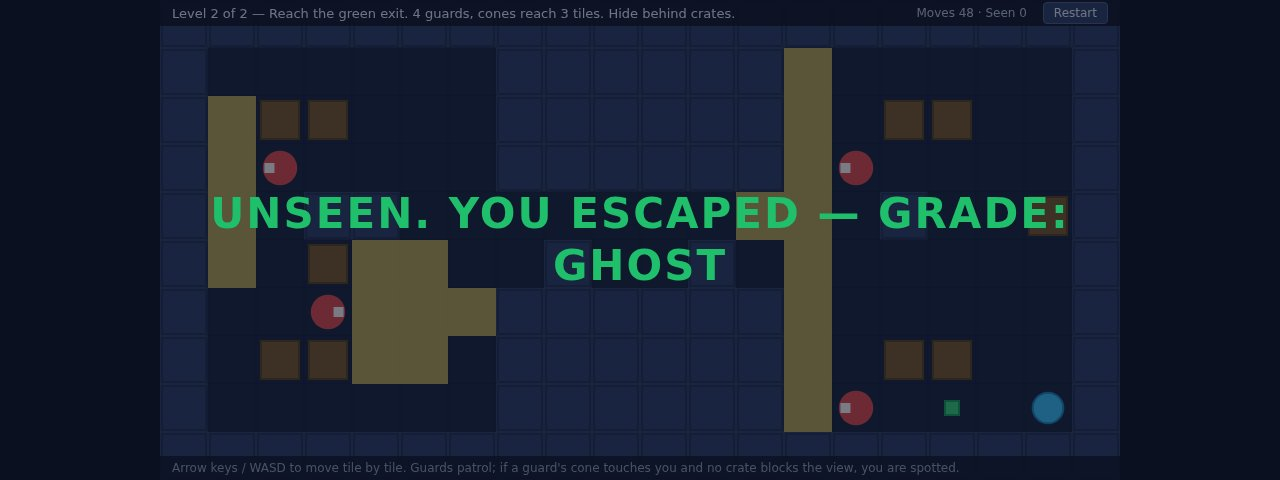
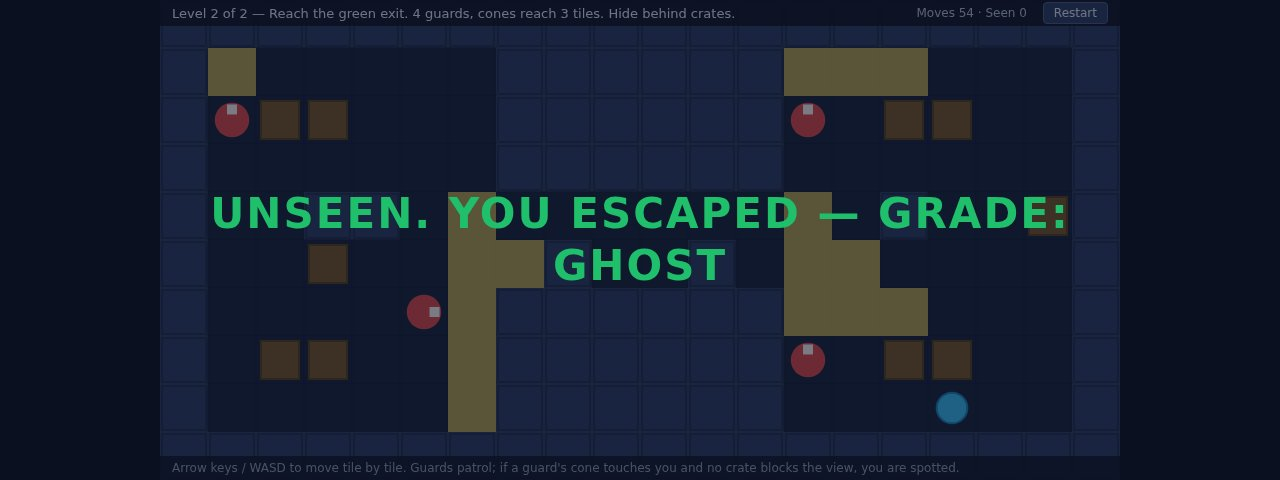
Stealth v3: align L2 exit tile with its marker, add R restart, real-playthrough end screenshot

diff --git a/game/index.html b/game/index.html
@@ -77,7 +77,7 @@
         "#P.....######...E..#",
         "####################"
       ],
-      start:{x:1,y:8}, exit:{x:18,y:8}, coneRange:3,
+      start:{x:1,y:8}, exit:{x:16,y:8}, coneRange:3,
       guards:[
         {wp:[[1,1],[6,1],[6,3],[1,3]],start:[1,1]},
         {wp:[[13,1],[18,1],[18,3],[13,3]],start:[13,1]},
@@ -348,6 +348,7 @@
       if(levelClear){advanceToLevel2();return;}
       restart();return;
     }
+    if(k==='r'||k==='R'){restart();return;}
     var m=keyMap[k];
     if(m){e.preventDefault();movePlayer(m[0],m[1]);}
   });

diff --git a/README.md b/README.md
@@ -9,7 +9,7 @@ Silent Ledger is a complete, original top-down stealth game that plays offline i
 - **Crates** — Wooden crates block both movement and sight, so hiding behind one keeps you out of every cone.
 - **Two levels** — Reach the green exit on Level 1 to clear it, then press **Space** (or click the band) to advance to Level 2. Your **Moves** and **Seen** counters accumulate across both levels. Reaching the Level 2 exit is the final win.
 - **Escape grades** — On the final win you are graded from your cumulative counters: **Seen 0 & Moves ≤ 60** = "GHOST"; **Seen 0** = "UNSEEN"; **Seen ≤ 2** = "SHADOW"; otherwise "DETECTED BUT OUT". The win band shows your grade in green.
-- **Restart** — The Restart button (or Space during normal play) resets the whole game back to Level 1 with Moves 0, Seen 0. Space only advances levels when Level 1 is clear and waiting.
+- **Restart** — The Restart button, the **R** key, or Space during normal play resets the whole game back to Level 1 with Moves 0, Seen 0. Space only advances levels when Level 1 is clear and waiting.
 
 ## Run it
 
